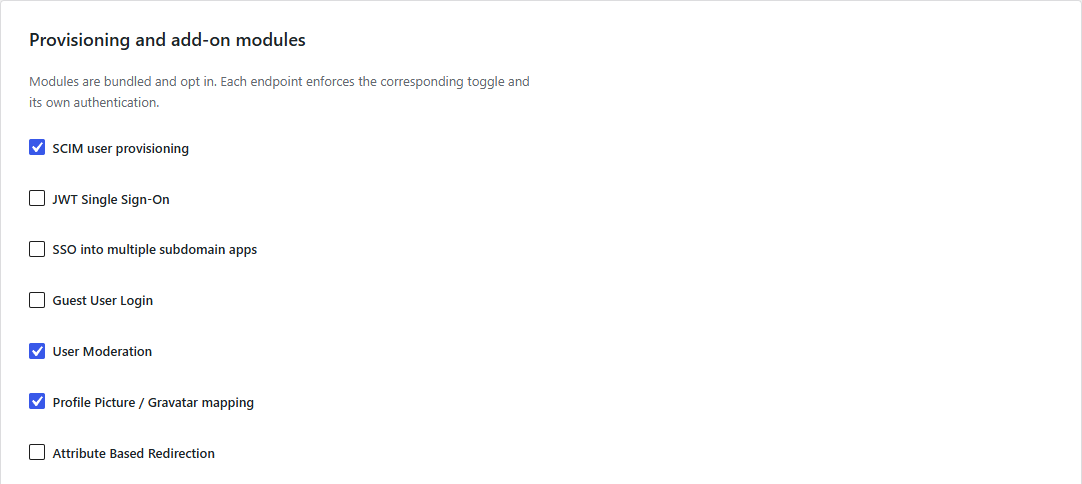
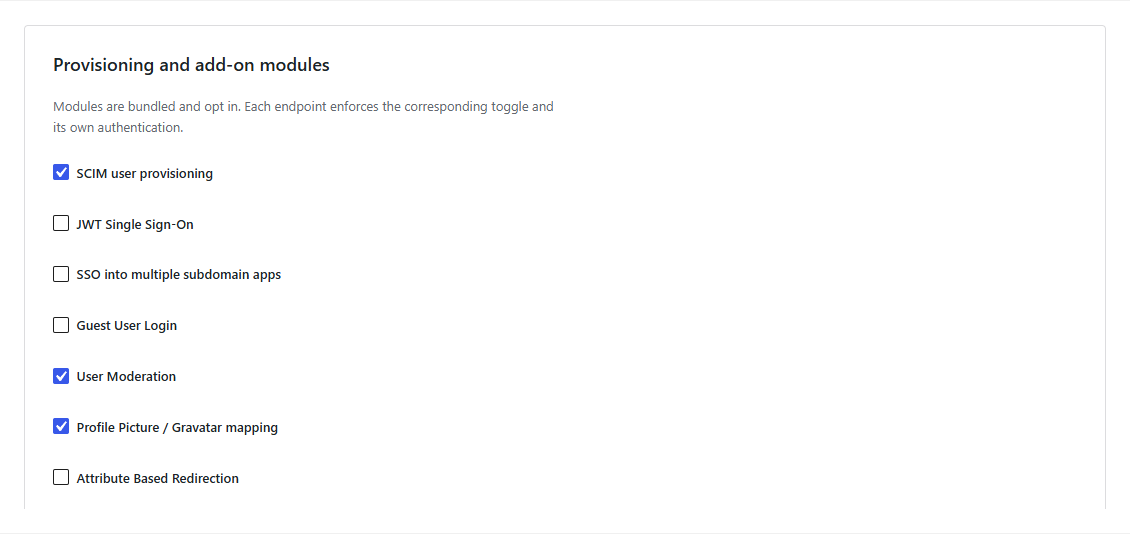
docs: add padding around every product screenshot

diff --git a/docs/screenshots/README.md b/docs/screenshots/README.md
@@ -1,8 +1,10 @@
 # Product screenshot maintenance
 
-These PNGs were captured in disposable WordPress 7.1.4 fixtures. The gallery began with PortalWeave SSO 1.0.1; settings views containing the shared header were refreshed on 2026-11-07 from source after v1.1.0 to show the new plugin logo. Unchanged section and public views retain their earlier captures. Providers, accounts, domains and audit records are fictional examples; they do not establish successful registration or authentication with an external provider.
+These PNGs were captured in disposable WordPress 7.1.4 fixtures. The gallery began with PortalWeave SSO 1.0.1 and was refreshed on 2026-11-07 from source after v1.1.0 to show the new plugin logo and consistent screenshot padding. Providers, accounts, domains and audit records are fictional examples; they do not establish successful registration or authentication with an external provider.
 
 Capture the actual interface with Playwright. Keep the WordPress styling and use a consistent desktop viewport; crop to the plugin workspace or the relevant complete section. Public sign-in captures must use an anonymous browser context. Use ordinary UI navigation to show the provider guide steps and expanded settings. Never fill or reveal a real secret for a screenshot.
+
+Leave 24 CSS pixels of the surrounding native background on every side of each capture. Preserve the content's original dimensions and typography; panels, headings and controls must not touch the image edges. Apply this padding only in the capture framing, without changing production styles or redrawing the interface. Check the content bounds and restore any temporary capture wrapper after each screenshot.
 
 The gallery covers overview, provider choice and setup, public login and shortcode placement, appearance, account mapping and verification, access policy, optional modules, audit/privacy, backup/restore and genuine multisite enforcement. Current site screens use `wp-admin/options-general.php?page=portalweave-sso&tab=...`; network controls use the corresponding Network Admin screen. See [admin screen design](../admin-design.md) for the route and interaction contracts.
 
